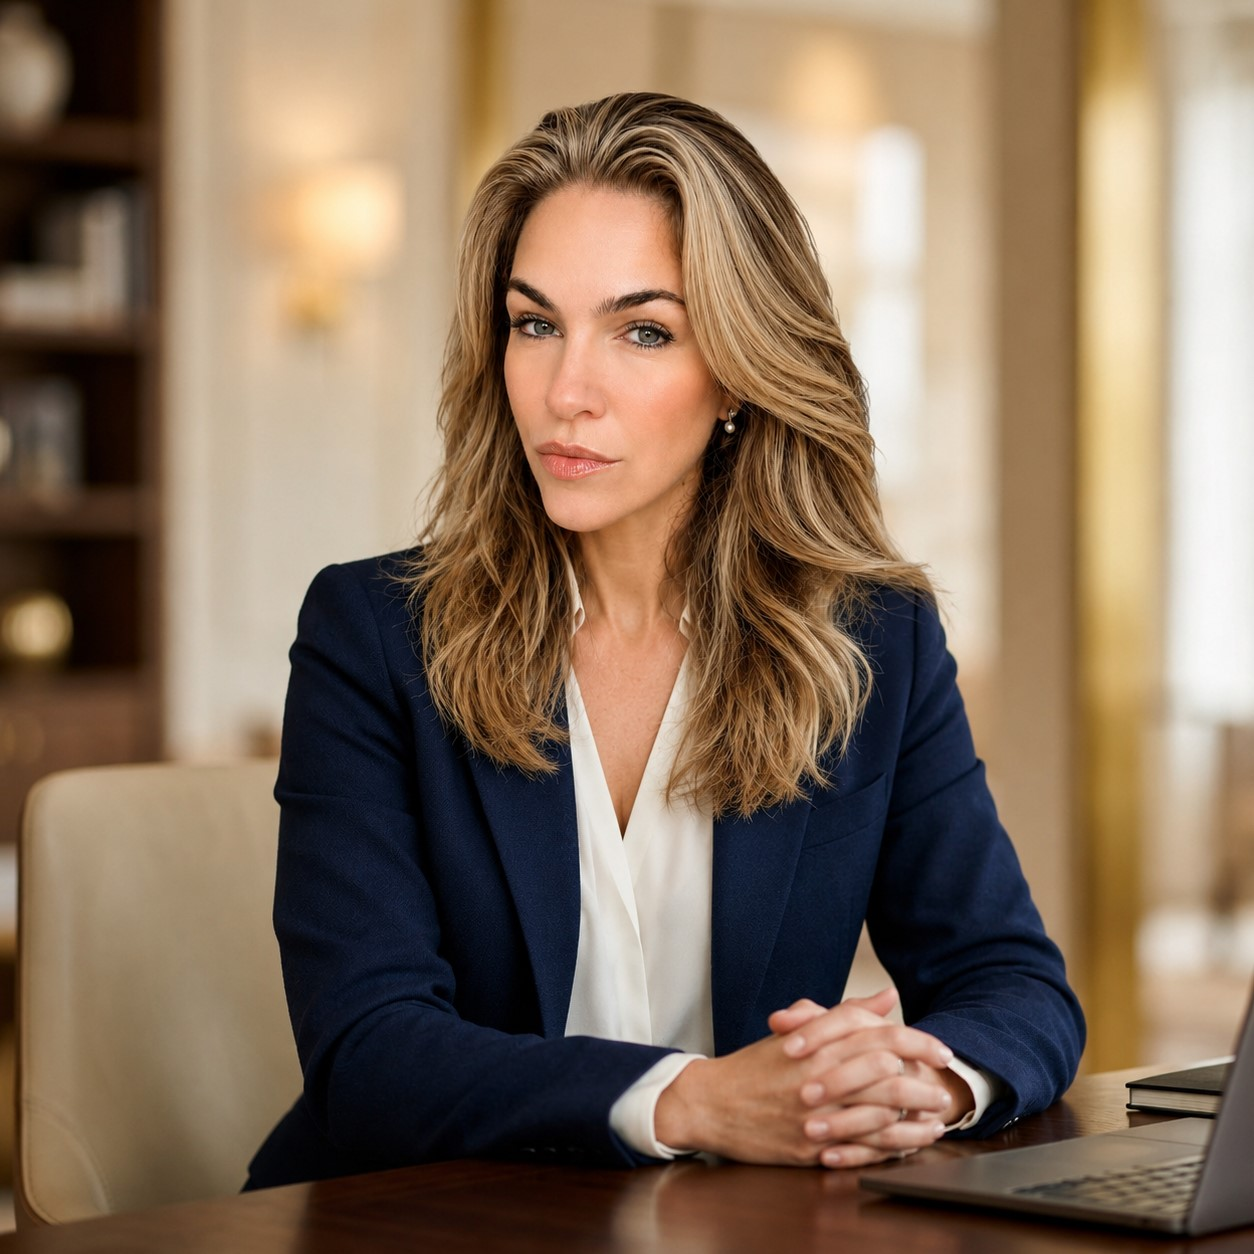
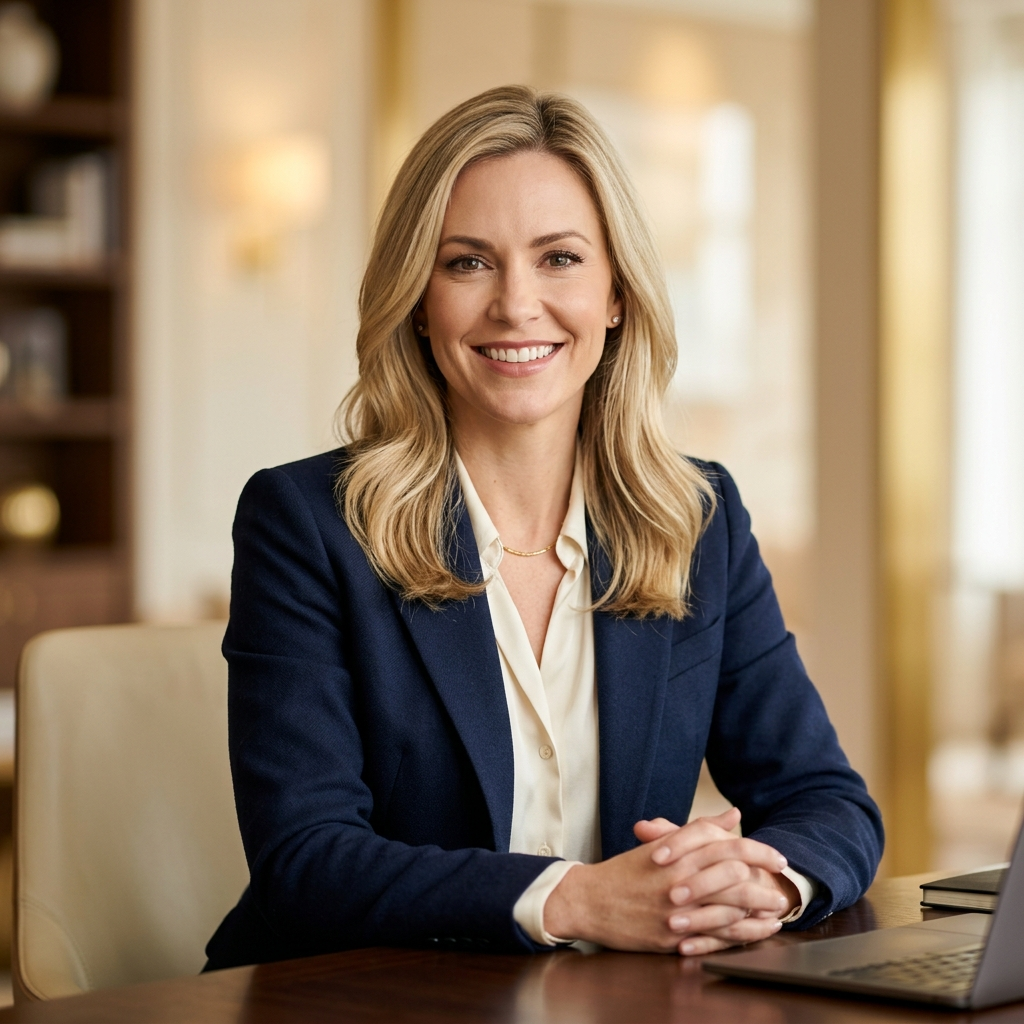
refactor: update hero portrait and linkedin link
Update the professional portrait image and correct the LinkedIn profile URL to ensure accurate connectivity.

diff --git a/src/components/Contact.tsx b/src/components/Contact.tsx
@@ -63,7 +63,7 @@ export default function Contact() {
             {/* LinkedIn & Location row */}
             <div className="grid grid-cols-1 sm:grid-cols-2 gap-4">
               <a
-                href="https://linkedin.com/in/karen-schneider"
+                href="https://www.linkedin.com/in/karen-schneider-12b64929"
                 target="_blank"
                 rel="noopener noreferrer"
                 className="flex items-center space-x-4 group bg-white/5 border border-white/10 hover:bg-white hover:text-brand-gold-dark p-4 transition-all duration-300"

diff --git a/src/components/Hero.tsx b/src/components/Hero.tsx
@@ -1,5 +1,5 @@
 import { motion } from "motion/react";
-import portraitImg from "../assets/images/karen_schneider_portrait_1785193850755.jpg";
+import portraitImg from "../assets/images/karen_portrait_navy_blue_1785787231032.jpg";
 
 export default function Hero() {
   const skills = [
